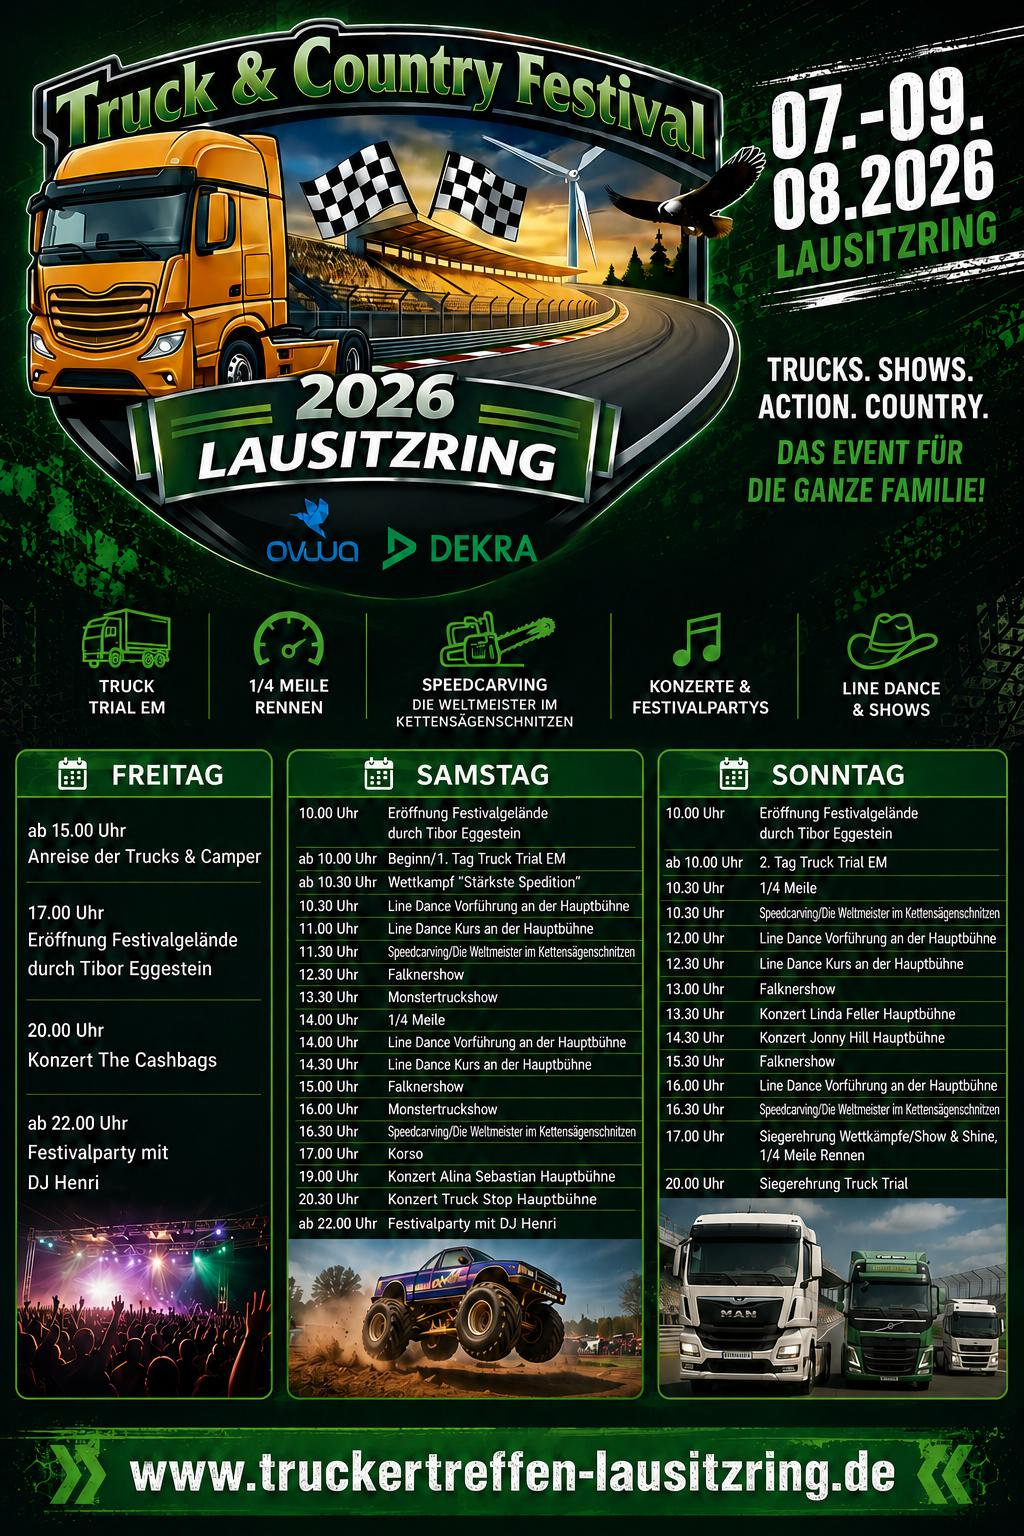
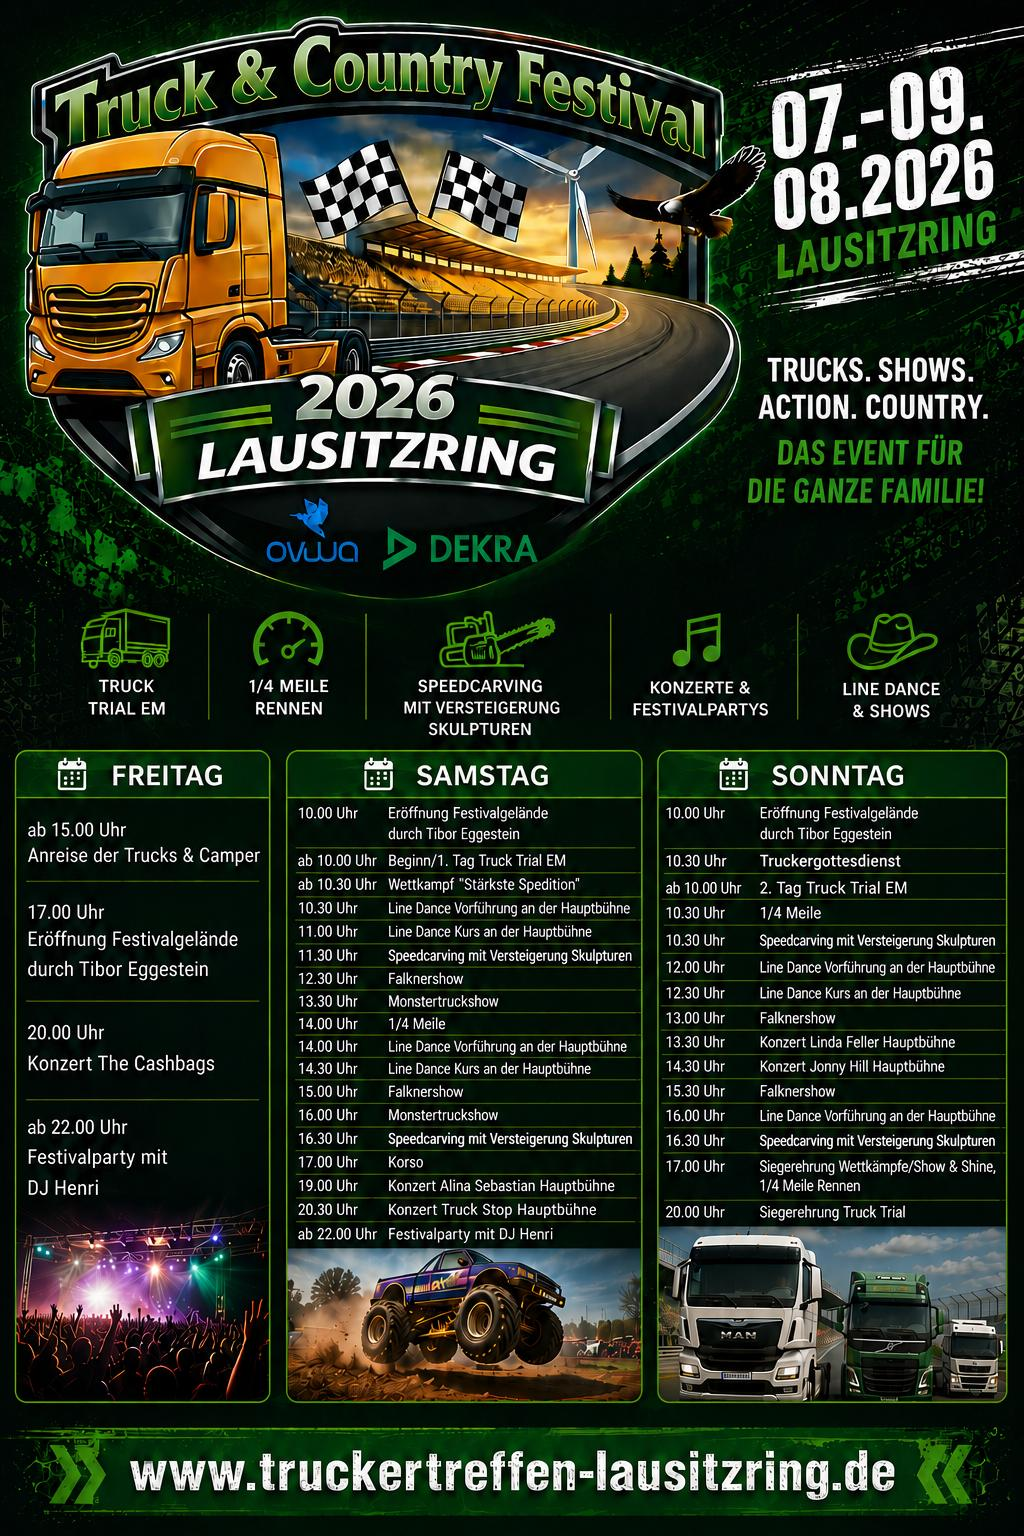
Changes

diff --git a/src/components/ProgrammSection.tsx b/src/components/ProgrammSection.tsx
@@ -26,7 +26,7 @@ const days: Day[] = [
       { time: "ab 10:30", text: "Wettkampf „Stärkste Spedition\"" },
       { time: "10:30", text: "Line Dance Vorführung (Hauptbühne)" },
       { time: "11:00", text: "Line Dance Kurs (Hauptbühne)" },
-      { time: "11:30", text: "Speedcarving – Weltmeister im Kettensägenschnitzen" },
+      { time: "11:30", text: "Speedcarving mit Versteigerung – Weltmeister im Kettensägenschnitzen" },
       { time: "12:30", text: "Falknershow" },
       { time: "13:30", text: "Monstertruckshow" },
       { time: "14:00", text: "1/4 Meile" },
@@ -34,7 +34,7 @@ const days: Day[] = [
       { time: "14:30", text: "Line Dance Kurs (Hauptbühne)" },
       { time: "15:00", text: "Falknershow" },
       { time: "16:00", text: "Monstertruckshow" },
-      { time: "16:30", text: "Speedcarving – Kettensägenschnitzen" },
+      { time: "16:30", text: "Speedcarving mit Versteigerung – Kettensägenschnitzen" },
       { time: "17:00", text: "Korso" },
       { time: "19:00", text: "Konzert Alina Sebastian (Hauptbühne)", highlight: true },
       { time: "20:30", text: "Konzert Truck Stop (Hauptbühne)", highlight: true },
@@ -49,7 +49,7 @@ const days: Day[] = [
       { time: "ab 10:00", text: "2. Tag Truck Trial EM" },
       { time: "10:30", text: "1/4 Meile" },
       { time: "10:30", text: "Truckergottesdienst" },
-      { time: "10:30", text: "Speedcarving – Kettensägenschnitzen" },
+      { time: "10:30", text: "Speedcarving mit Versteigerung – Kettensägenschnitzen" },
       { time: "12:00", text: "Line Dance Vorführung (Hauptbühne)" },
       { time: "12:30", text: "Line Dance Kurs (Hauptbühne)" },
       { time: "13:00", text: "Falknershow" },
@@ -57,7 +57,7 @@ const days: Day[] = [
       { time: "14:30", text: "Konzert Jonny Hill (Hauptbühne)", highlight: true },
       { time: "15:30", text: "Falknershow" },
       { time: "16:00", text: "Line Dance Vorführung (Hauptbühne)" },
-      { time: "16:30", text: "Speedcarving – Kettensägenschnitzen" },
+      { time: "16:30", text: "Speedcarving mit Versteigerung – Kettensägenschnitzen" },
       { time: "17:00", text: "Siegerehrung Wettkämpfe / Show & Shine / 1/4 Meile", highlight: true },
       { time: "20:00", text: "Siegerehrung Truck Trial", highlight: true },
     ],
